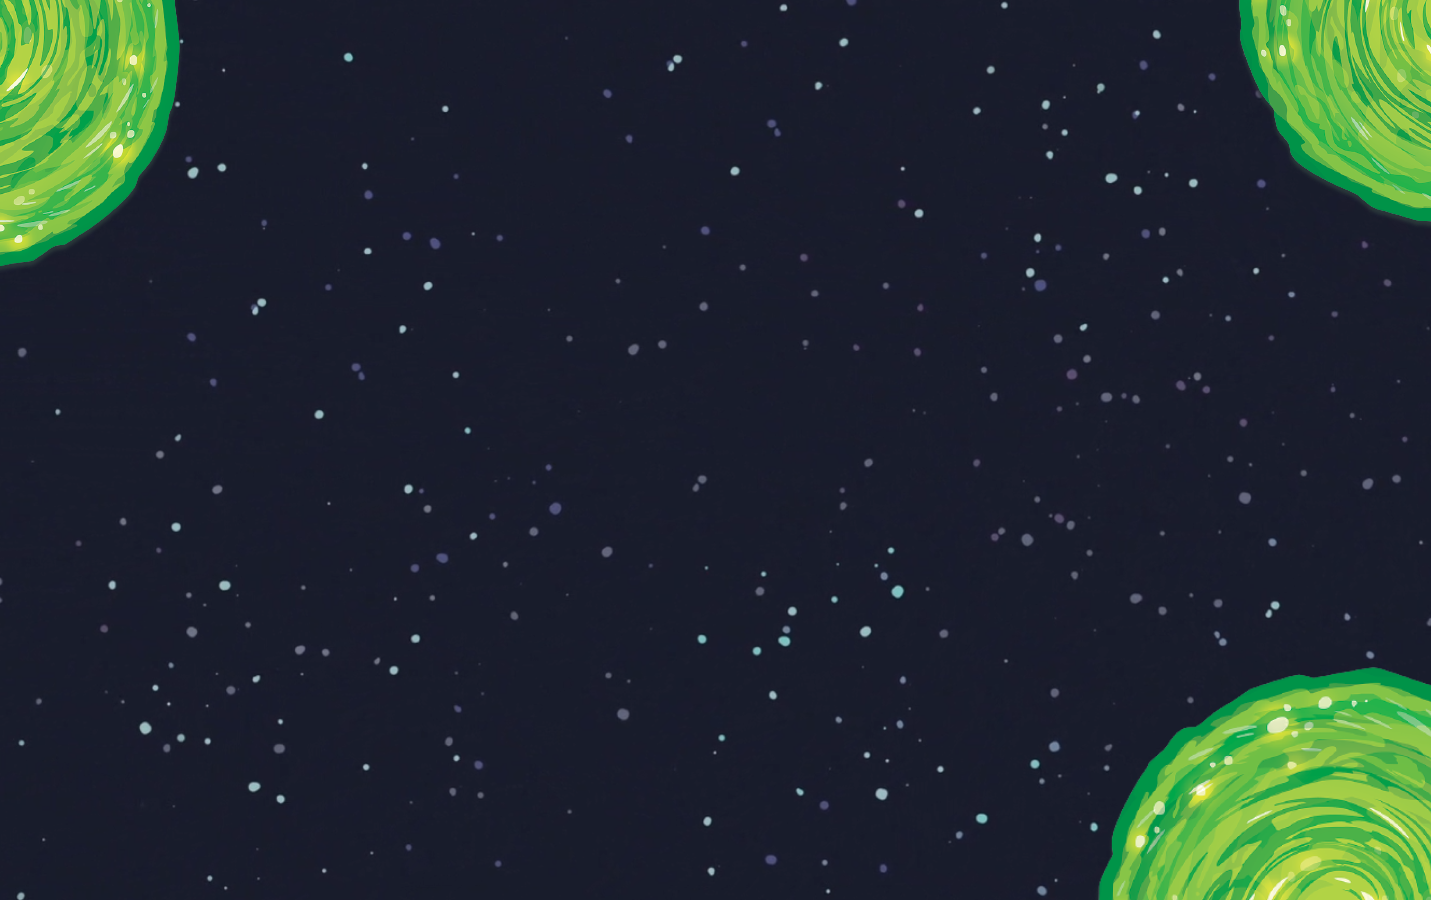
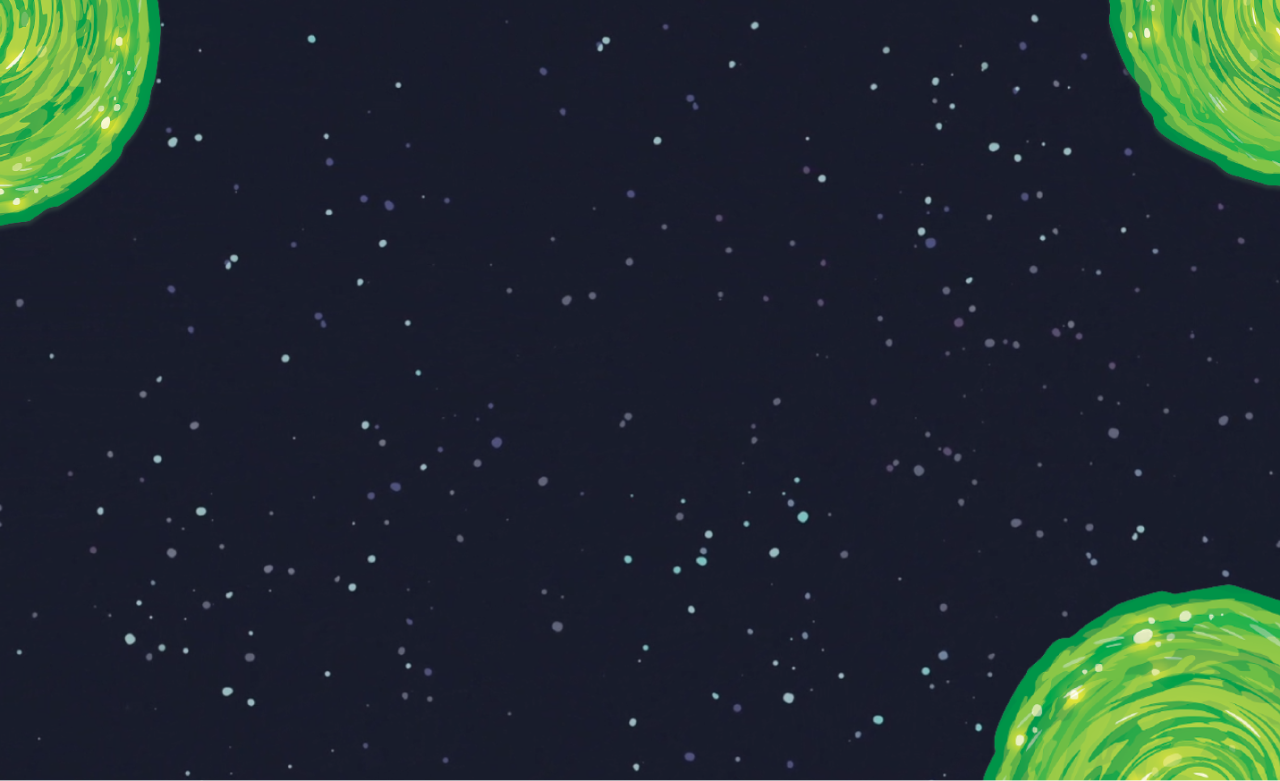
Cambios CSS página de inicio

diff --git a/src/style.css b/src/style.css
@@ -7,10 +7,50 @@ h1,h2, body{
     padding: 0px; 
 }
 
-
-#paginaUno{
-  display: block;
+html,body{
+    height: 100%;
+    width: 100%;
 }
+
+#paginaUno {
+    background-image: url("/imagenes/imgFondo.png");
+    background-repeat: no-repeat;
+    height: 100%;
+    width: 100%;
+    background-size: 100% 100%;
+    background-position: absolute;
+    
+    color: #FFF;
+    font-family: 'Arial, Helvetica', sans-serif;
+    
+}
+
+#paginaUno h1{
+    position: absolute;
+    width: 350px;
+    height: 190px;
+    left: 842px;
+    top: 246px;
+    font-weight: bold;
+    font-size: 72px;
+}
+
+#paginaUno h2{
+    position: absolute;
+    width: 350px;
+    height: 190px;
+    left: 842px;
+    top: 146px;
+    font-weight: normal;
+    font-size: 42px;
+}
+
+
+#paginaDos {
+  display: none;
+}
+
+
 #tituloPagina{
     background-color: #6BAC2B;
     opacity: 0.9;

diff --git a/src/main.js b/src/main.js
@@ -3,6 +3,11 @@ import { example } from './data.js';
 // import data from './data/pokemon/pokemon.js';
 import data from './data/rickandmorty/rickandmorty.js';
 
+document.getElementById("pasarPagina").addEventListener("click", function () {
+    document.getElementById("paginaUno").style.display = "none";
+    document.getElementById("paginaDos").style.display = "block";
+});
+
 const { info, results } = data;
 for (let i = 0; i < results.length; i++) {
     const personajes = results[i]

diff --git a/src/index.html b/src/index.html
@@ -9,14 +9,16 @@
 
 <body>
   <div id="paginaUno">
-    <h1>
-      Hola terricola, estás en <br />
-      WUBBA LUBBA
-    </h1>
     <h2>
+      Hola terricola, estás en
+    </h2>
+    <h1>
+       WUBBA LUBBA
+    </h1>
+    <h3>
       Aquí podrás encontrar información de los personajes de Rick and Morty y
       también ordenarlos según tu interés.
-    </h2>
+    </h3>
     <button id="pasarPagina" class="button">Iniciar</button>
   </div>
 
